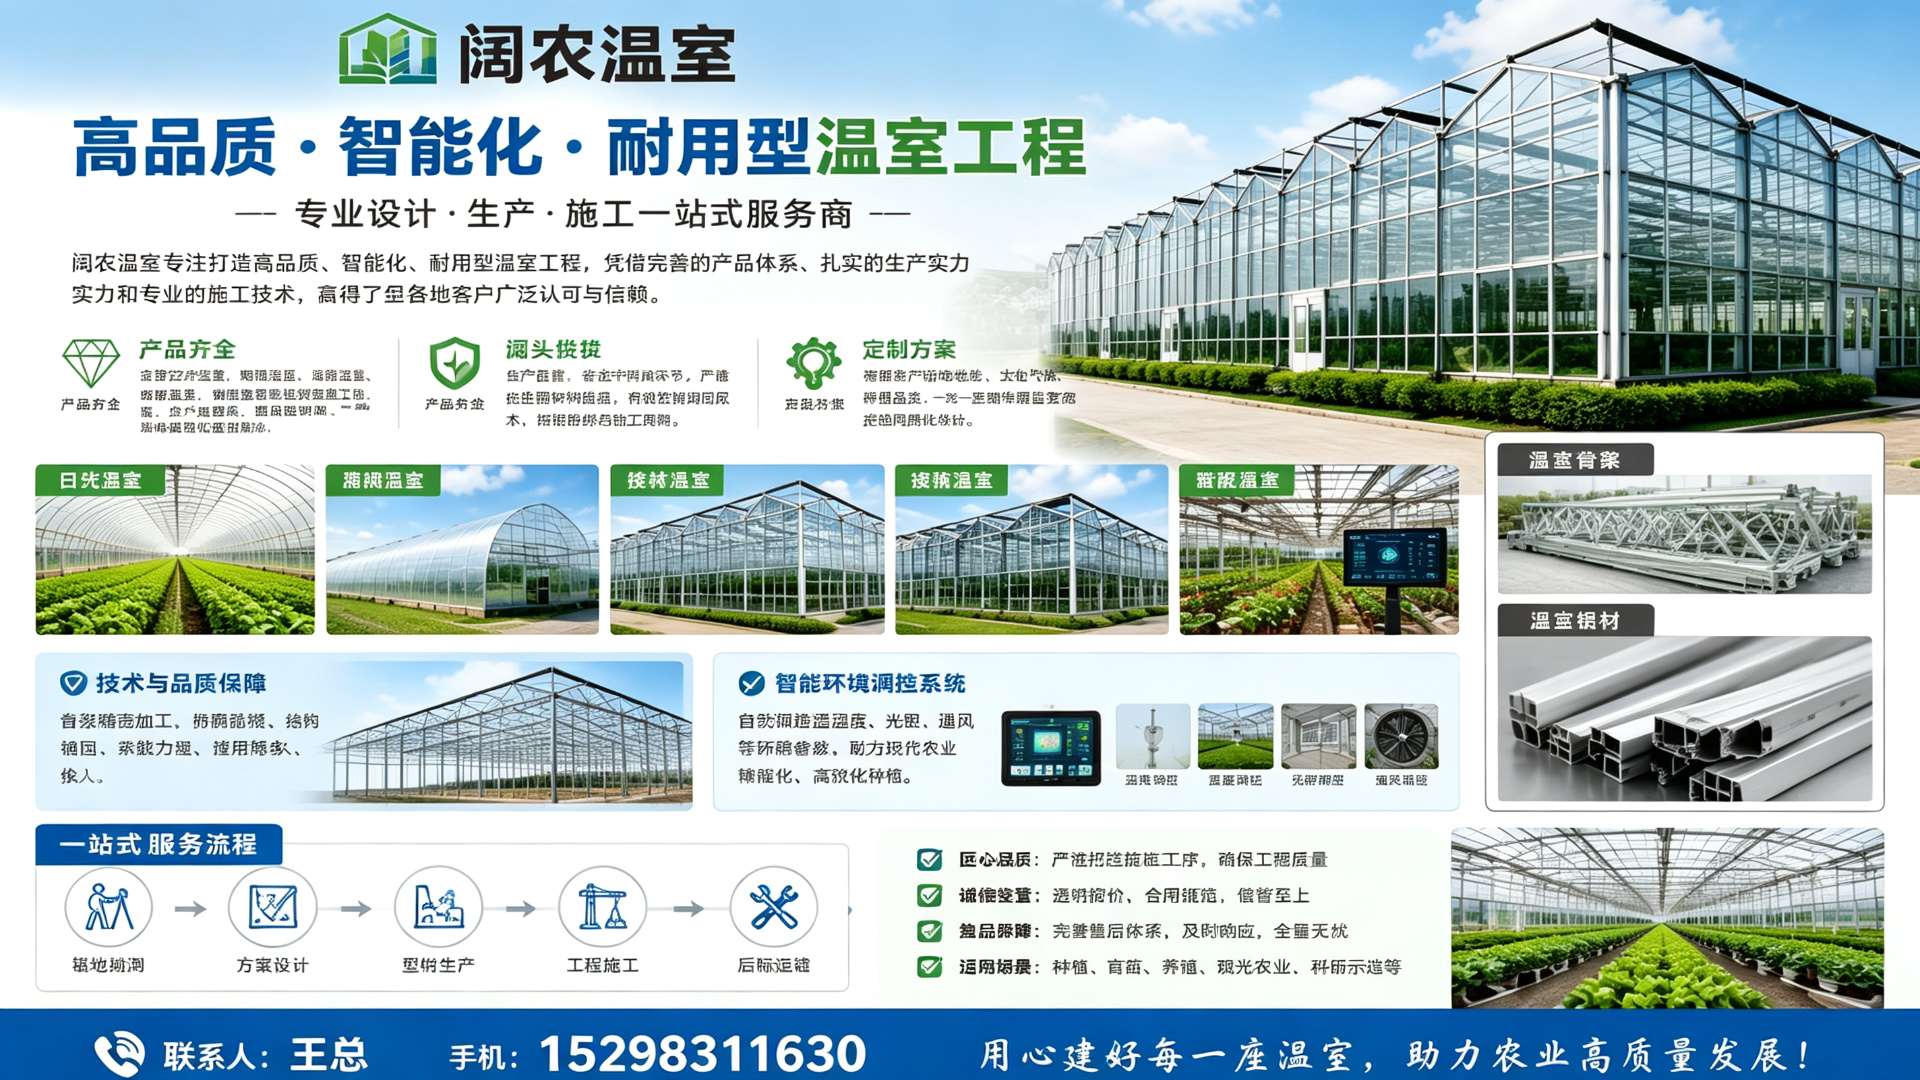
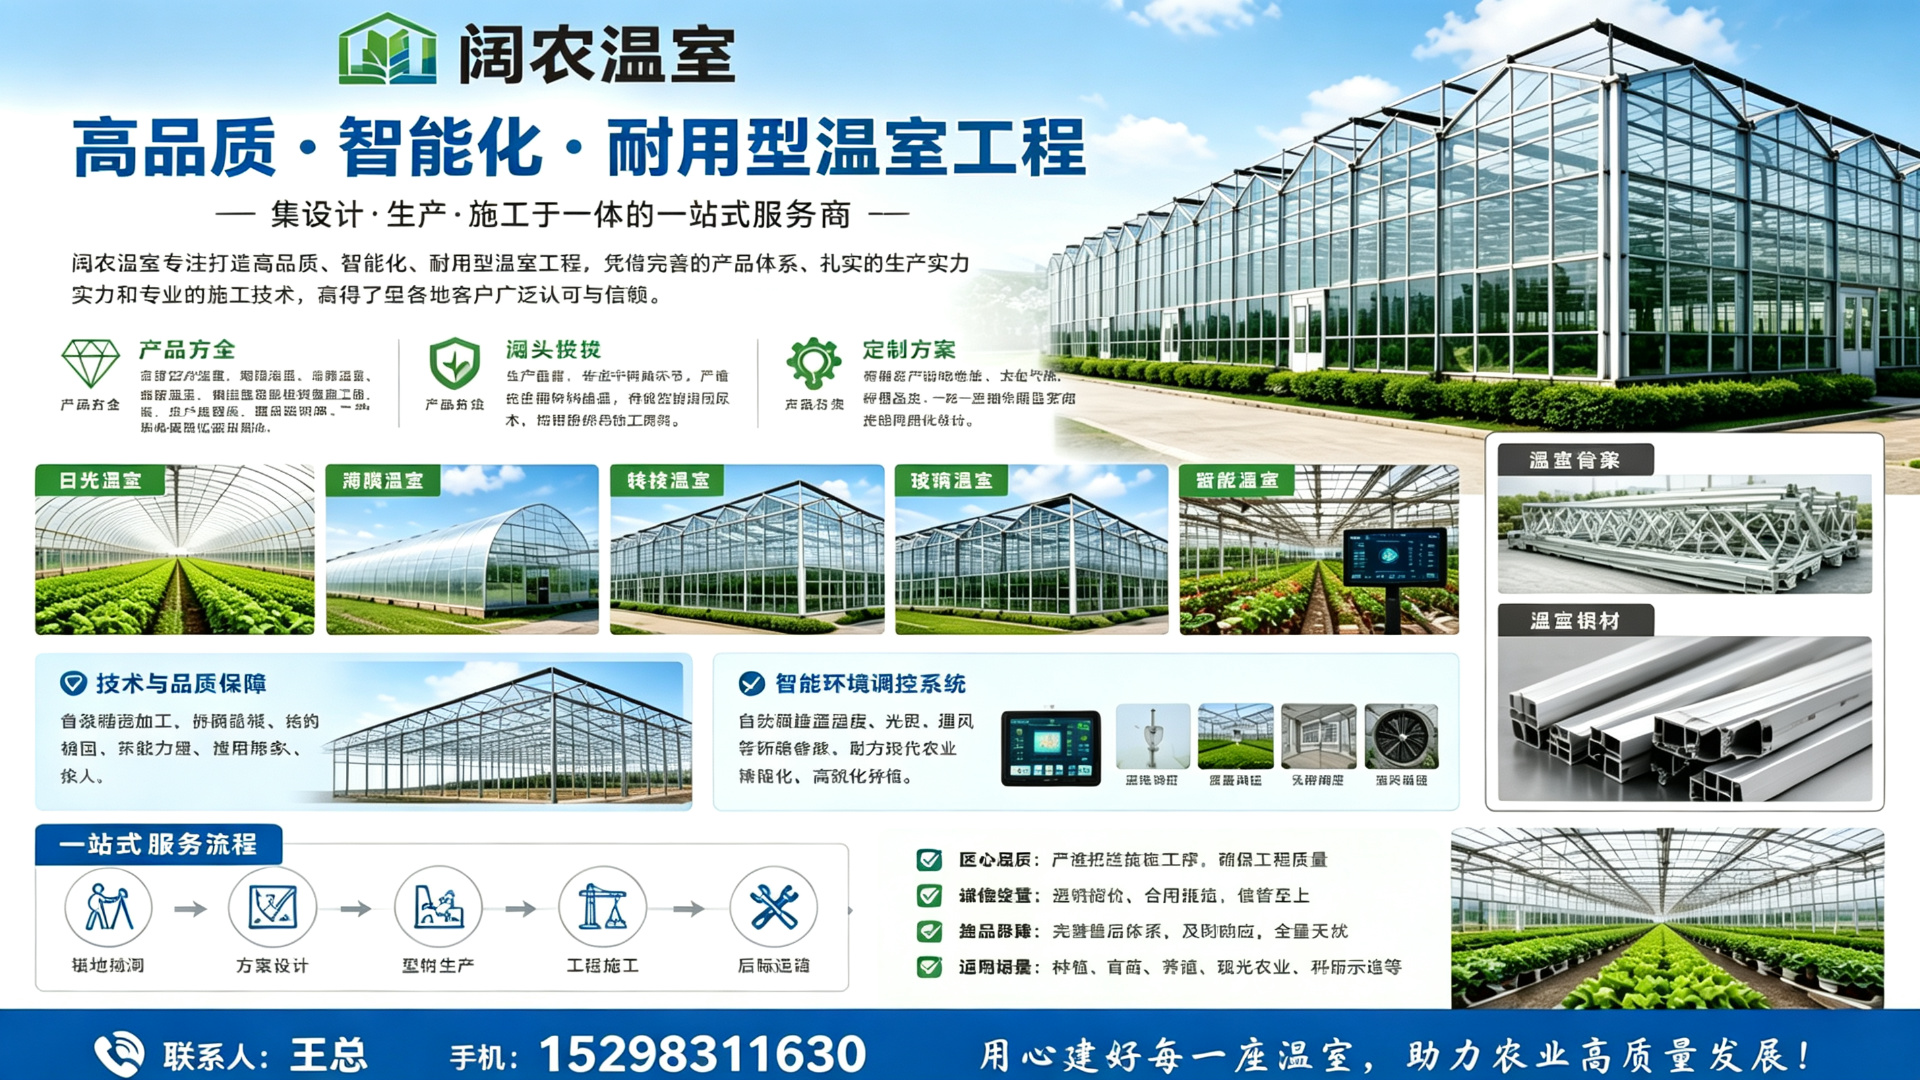
refactor1(img-about)

diff --git a/index.html b/index.html
@@ -954,11 +954,11 @@
         <p class="section-subtitle reveal reveal-delay-1 visible">专注温室工程全产业链服务，以匠心品质助力现代农业</p>
         <div class="about-grid">
             <div class="about-text reveal reveal-delay-1 visible">
-                <h3>阔农温室专注打造高品质、智能化、耐用型温室工程</h3>
-                <p>阔农温室专注打造高品质、智能化、耐用型温室工程，专注生产实力和专业的施工技术，赢得了全国各地客户的广泛认可与信赖。公司产品品类齐全，覆盖全场景温室建设需求，主营日光温室、薄膜温室、连栋温室、玻璃温室、智能温室等各类温室工程，同时生产温室骨架、温室铝材等核心配套型材，实现自产自营、源头供货模式。</p>
-                <p>省去中间商环节，既能严格把控原材料品质，又能有效控制项目成本，保障产品性价比，同时大幅缩短供货与施工周期，适配种植、育苗、养殖、观光农业、科研示范等多种场景。团队可根据客户场地地形、当地气候、种植品类，一对一定制专属温室方案，拒绝同质化设计。</p>
-                <p>在技术与品质方面，拥有技术方案团队和标准化生产施工团队。所有温室骨架采用精密工艺加工，防腐防锈、结构稳固、承载力强、使用寿命久；智能温室搭载现代化环境调控系统，可自动调控温湿度、光照、通风，助力现代农业精细化、高效化种植。</p>
-                <p>依托全产业链服务优势，公司提供从场地勘测、方案设计、型材生产、工程施工到后期运维的一站式交钥匙服务。始终秉持匠心品质、诚信经营的理念，严格把控每一道施工工序，完善售后保障体系，以靠谱的工程质量、贴心的全程服务，为广大农业从业者搭建高效、稳定、高产的现代化种植设施。</p>
+                <h3>阔农温室 · 匠心筑造高品质智能耐用型温室工程</h3>
+                <p>阔农温室始终致力于高品质、智能化、耐用型温室工程的深耕与筑造，凭借雄厚的生产制造实力与精湛的施工技术，已赢得全国范围内客户的普遍认可与深度信赖。公司产品线完备，全面覆盖各类温室建设场景，核心业务涵盖日光温室、薄膜温室、连栋温室、玻璃温室及智能温室等全品类温室工程，同时自主生产温室骨架、温室铝材等关键配套型材，构建起自产自营、源头直供的完整产业模式。</p>
+                <p>通过剔除中间流通环节，公司得以在严格把控原材料品质的同时，精准压降项目综合成本，确保产品具备卓越性价比；此外，供货与施工周期亦得到显著压缩，可灵活适配蔬菜种植、花卉育苗、畜牧养殖、观光农业及科研示范等多元应用场景。专业设计团队会依据客户场地的地形条件、区域气候特征及具体种植品类，量身定制一对一专属温室方案，坚决摒弃千篇一律的同质化设计。</p>
+                <p>在技术研发与品质管控层面，公司配备专业的技术方案团队与标准化生产施工团队。所有温室骨架均经由精密工艺加工成型，具备卓越的防腐防锈性能、稳固的结构强度、出色的承载能力与长久的使用寿命；智能温室系统则搭载现代化环境调控平台，可实现温湿度、光照及通风的自动化精准调节，为现代农业的精细化、高效化种植提供坚实技术支撑。</p>
+                <p>凭借全产业链一体化服务优势，公司为客户提供涵盖场地勘测、方案设计、型材生产、工程施工及后期运维的全流程交钥匙服务。公司始终坚守匠心筑品、诚信立业的经营理念，对每一道施工工序实施严格管控，持续完善售后保障体系，以过硬的工程品质与贴心的全周期服务，助力广大农业从业者搭建高效、稳定、高产的现代化种植设施。</p>
                 <p>咨询热线：<a href="tel:15298311630" class="phone-inline">15298311630</a></p>
             </div>
             <div class="about-img-wrap reveal reveal-delay-2 visible">
@@ -1050,22 +1050,22 @@
             <div class="advantage-card reveal visible">
                 <div class="advantage-icon">🏗</div>
                 <h4>源头供货</h4>
-                <p>自产自营模式，省去中间商环节，严格把控原材料品质，有效控制项目成本，保障性价比。</p>
+                <p>采用自产自营模式，剔除中间流通环节，从源头严格把控原材料品质，精准控制项目综合成本，确保卓越性价比。</p>
             </div>
             <div class="advantage-card reveal reveal-delay-1 visible">
                 <div class="advantage-icon">🛡</div>
                 <h4>匠心品质</h4>
-                <p>精密工艺加工温室骨架，防腐防锈、结构稳固、承载力强、使用寿命久，严格把控每道工序。</p>
+                <p>温室骨架经由精密工艺加工，具备防腐防锈、结构稳固、承载力强、使用寿命长久等特性，每道工序均经过严苛品控。</p>
             </div>
             <div class="advantage-card reveal reveal-delay-2 visible">
                 <div class="advantage-icon">🎯</div>
                 <h4>专属定制</h4>
-                <p>根据场地地形、当地气候、种植品类，一对一定制专属温室方案，拒绝同质化设计。</p>
+                <p>结合场地地形、区域气候及种植品类，提供一对一专属温室方案定制服务，杜绝同质化设计。</p>
             </div>
             <div class="advantage-card reveal reveal-delay-3 visible">
                 <div class="advantage-icon">🤝</div>
                 <h4>一站式服务</h4>
-                <p>从勘测、设计、生产、施工到后期运维，提供全流程交钥匙服务，贴心售后有保障。</p>
+                <p>覆盖勘测、设计、生产、施工至后期运维的全流程交钥匙服务，配套贴心售后，全程无忧。</p>
             </div>
         </div>
     </div>
@@ -1077,7 +1077,7 @@
         <div class="footer-grid">
             <div class="footer-brand">
                 <h3>阔农温室工程厂家</h3>
-                <p>专注打造高品质、智能化、耐用型温室工程。自产自营，全产业链服务，为现代农业提供高效、稳定、高产的现代化种植设施。</p>
+                <p>潜心筑造高品质、智能化、耐用型温室工程。坚持自产自营与全产业链一体化服务，致力于为现代农业输送高效、稳定、高产的现代化种植解决方案。</p>
                 <p style="margin-top:12px;font-size:1rem;color:#a8e6b0;font-weight:600;">咨询热线：15298311630</p>
             </div>
         </div>
